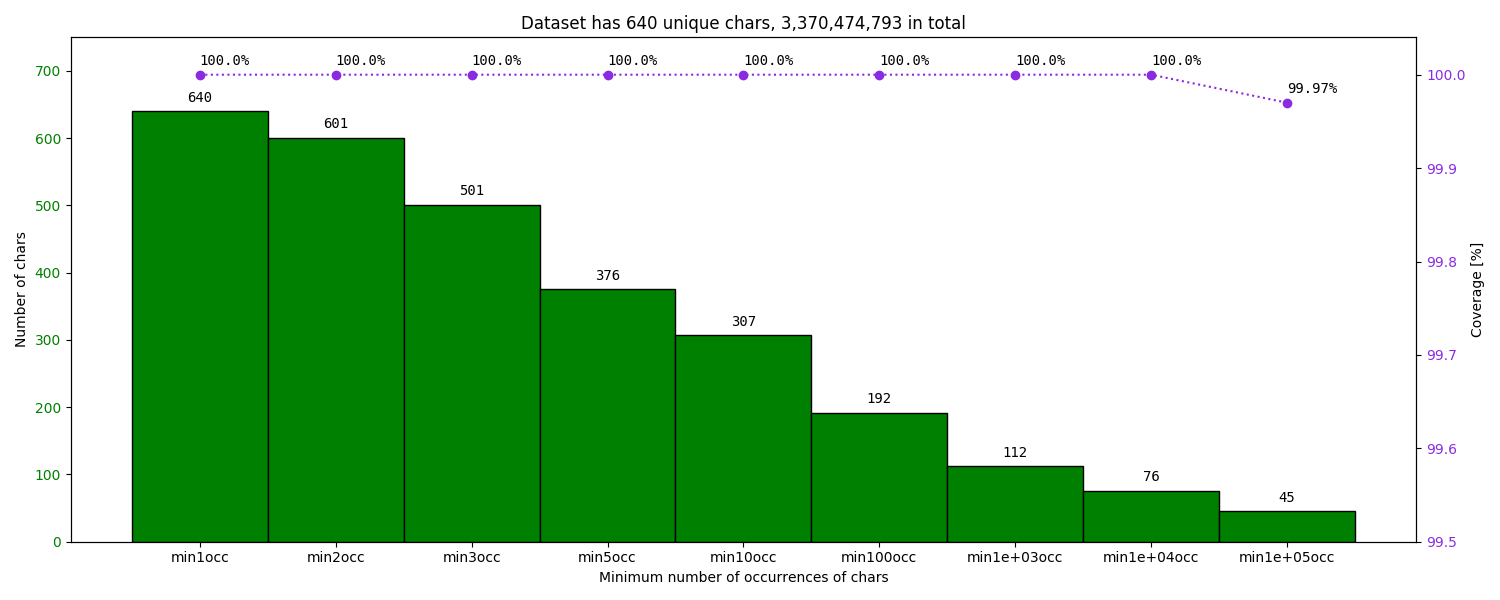
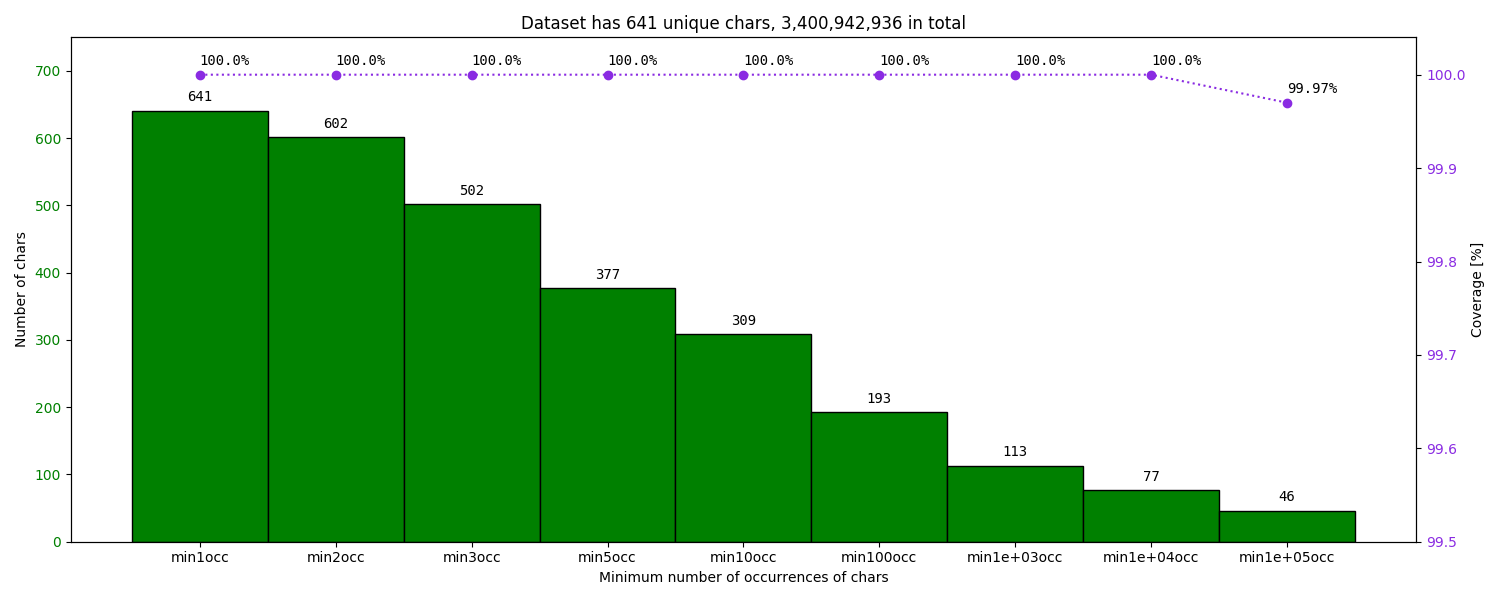
Update README and occurrences plots

diff --git a/README.md b/README.md
@@ -74,9 +74,26 @@ Configuration
 
 ```yaml
 ---
-url: https://dumps.wikimedia.org/frwiki/latest/frwiki-latest-pages-articles.xml.bz2
-output: /mnt/data/ml/qwant/datasets/wikipedia/fr-articles/
-args:
+res: /mnt/data/ml/qwant/datasets/wikipedia/fr-articles/
+actions:
+  - download
+  - decompress
+  - extract
+  - preprocess
+  - plot_word_occurrences
+  - define_word_vocabulary
+  - plot_char_occurrences
+  - define_char_vocabulary
+download:
+  input: https://dumps.wikimedia.org/frwiki/latest/frwiki-latest-pages-articles.xml.bz2
+  output: frwiki-latest-pages-articles.xml.bz2
+decompress:
+  input: frwiki-latest-pages-articles.xml.bz2
+  output: frwiki-latest-pages-articles.xml
+extract:
+  input: frwiki-latest-pages-articles.xml
+  output: frwiki-latest-pages-articles.jsonl
+  args:
     - --quiet
     - --json
     - --bytes 30G
@@ -84,40 +101,48 @@ args:
     - --no-templates
     - --filter_disambig_pages
     - --min_text_length 50
-preprocessing:
+preprocess:
+  input: frwiki-latest-pages-articles.jsonl
+  output: frwiki-latest-pages-articles.txt
+  kwargs:
     ignore_digits: True
     apostrophe: fr
     ignore_punctuation: noise-a
-    tostrip: True
+    tostrip: False
     keepalnum: True
-word_filter:
-    topn: 500000
-plot_format: png
-word_plot:
+plot_word_occurrences:
+  input: frwiki-latest-pages-articles.txt
+  output: plots/frwiki-latest-pages-articles_words.png
+  kwargs:
     mins: [1, 2, 3, 5, 10, 100]
     left_lim: [0, 3000000]
     right_lim: [95, 100.4]
-char_plot:
+define_word_vocabulary:
+  input: frwiki-latest-pages-articles.txt
+  output: frwiki-latest-pages-articles_voc-top500k-words.json
+  kwargs:
+    topn: 500000
+plot_char_occurrences:
+  input: frwiki-latest-pages-articles.txt
+  output: plots/frwiki-latest-pages-articles_chars.png
+  kwargs:
     mins: [1, 2, 3, 5, 10, 100, 1000, 10000, 100000]
     left_lim: [0, 750]
     right_lim: [99.5, 100.04]
+define_char_vocabulary:
+    input: frwiki-latest-pages-articles.txt
+    output: frwiki-latest-pages-articles_voc-chars.json
 ```
 
 Output
 
 ```
-INFO [2018-03-28 08:54:06,878] [ccquery] Download wikipedia dump
-INFO [2018-03-28 08:54:06,878] [ccquery.preprocessing.wiki_extraction] Download wikipedia dump from
-    https://dumps.wikimedia.org/frwiki/latest/frwiki-latest-pages-articles.xml.bz2
-    and store it to frwiki-latest-pages-articles.bz2
-
-INFO [2018-03-28 09:26:49,427] [ccquery] Decompress data
-INFO [2018-03-28 09:26:49,427] [ccquery.preprocessing.wiki_extraction] Decompress wikipedia dump from
-    frwiki-latest-pages-articles.bz2
-    and store it to frwiki-latest-pages-articles.xml
-
-INFO [2018-03-28 09:36:11,000] [ccquery] Extract plain text
-INFO [2018-03-28 09:36:11,032] [ccquery.preprocessing.wiki_extraction] Extract plain text from Wikipedia by executing the command:
+INFO [2018-04-10 11:50:58,460] [ccquery] Executing download action
+INFO [2018-04-10 11:50:58,461] [ccquery.preprocessing.wiki_extraction] Download wikipedia dump
+INFO [2018-04-10 12:22:37,021] [ccquery] Executing decompress action
+INFO [2018-04-10 12:22:37,022] [ccquery.preprocessing.wiki_extraction] Decompress wikipedia dump
+INFO [2018-04-10 12:33:29,653] [ccquery] Executing extract action
+INFO [2018-04-10 12:33:29,653] [ccquery.preprocessing.wiki_extraction] Extract plain text from Wikipedia by executing the command:
     WikiExtractor.py \
         frwiki-latest-pages-articles.xml \
         --quiet \
@@ -128,39 +153,24 @@ INFO [2018-03-28 09:36:11,032] [ccquery.preprocessing.wiki_extraction] Extract p
         --filter_disambig_pages \
         --min_text_length 50 \
         -o - > frwiki-latest-pages-articles.jsonl
-
-INFO [2018-03-28 10:47:31,153] [ccquery] Extract clean sentences
-INFO [2018-03-28 10:47:31,153] [ccquery.preprocessing.wiki_extraction] Extract clean sentences from
-    frwiki-latest-pages-articles.jsonl
-    and store them to frwiki-latest-pages-articles.txt
-
-INFO [2018-03-28 11:53:00,139] [ccquery] Process words
-INFO [2018-03-28 11:56:05,278] [ccquery.preprocessing.vocabulary] Read 2,496,898 words with 587,893,490 occurrences
-INFO [2018-03-28 11:56:05,279] [ccquery] Plot word occurrences
-INFO [2018-03-28 11:56:06,886] [ccquery.preprocessing.vocabulary] Saved histogram on word occurrences under
-    frwiki-latest-pages-articles_words.png
-INFO [2018-03-28 11:56:06,886] [ccquery] Filter words with respect to number of occurrences
-INFO [2018-03-28 11:56:08,198] [ccquery.preprocessing.vocabulary] Saved
-    500,000 words out of 2,496,898
-    (20.02% unique words, 99.25% coverage of word occurrences)
-INFO [2018-03-28 11:56:08,260] [ccquery] Save word vocabulary under json and txt format
-INFO [2018-03-28 11:56:09,639] [ccquery.preprocessing.vocabulary] Saved word counts under
-    frwiki-latest-pages-articles_voc-topn=500000-words.json
-INFO [2018-03-28 11:56:09,817] [ccquery.preprocessing.vocabulary] Saved word counts under
-    frwiki-latest-pages-articles_voc-topn=500000-words.txt
-
-INFO [2018-03-28 11:56:09,817] [ccquery] Process characters
-INFO [2018-03-28 12:04:21,046] [ccquery.preprocessing.vocabulary] Read 640 chars with 3,370,474,793 occurrences
-INFO [2018-03-28 12:04:21,046] [ccquery] Plot character occurrences
-INFO [2018-03-28 12:04:21,217] [ccquery.preprocessing.vocabulary] Saved histogram on char occurrences under
-    frwiki-latest-pages-articles_chars.png
-INFO [2018-03-28 12:04:21,217] [ccquery] Save character vocabulary under json and txt format
-INFO [2018-03-28 12:04:21,219] [ccquery.preprocessing.vocabulary] Saved char counts under
-    frwiki-latest-pages-articles_voc-chars.json
-INFO [2018-03-28 12:04:21,219] [ccquery.preprocessing.vocabulary] Saved char counts under
-    frwiki-latest-pages-articles_voc-chars.txt
-
-INFO [2018-03-28 12:04:21,219] [ccquery] Finished.
+INFO [2018-04-10 14:31:33,687] [ccquery] Executing preprocess action
+INFO [2018-04-10 14:31:33,687] [ccquery.preprocessing.wiki_extraction] Extract clean sentences
+INFO [2018-04-10 17:01:10,611] [ccquery] Executing plot_word_occurrences action
+INFO [2018-04-10 17:06:48,838] [ccquery.preprocessing.vocabulary] Read 2,522,623 words with 589,297,641 occurrences
+INFO [2018-04-10 17:06:48,838] [ccquery.preprocessing.vocabulary] Save histogram on word occurrences
+INFO [2018-04-10 17:06:51,791] [ccquery] Executing define_word_vocabulary action
+INFO [2018-04-10 17:06:54,006] [ccquery.preprocessing.vocabulary] Saved
+    500,000 words out of 2,522,623
+    (19.82% unique words, 99.24% coverage of word occurrences)
+INFO [2018-04-10 17:06:54,089] [ccquery.preprocessing.vocabulary] Save word counts in json file
+INFO [2018-04-10 17:06:56,272] [ccquery.preprocessing.vocabulary] Save words in text file
+INFO [2018-04-10 17:06:57,198] [ccquery] Executing plot_char_occurrences action
+INFO [2018-04-10 17:23:13,536] [ccquery.preprocessing.vocabulary] Read 641 chars with 3,400,942,936 occurrences
+INFO [2018-04-10 17:23:13,536] [ccquery.preprocessing.vocabulary] Save histogram on char occurrences
+INFO [2018-04-10 17:23:13,845] [ccquery] Executing define_char_vocabulary action
+INFO [2018-04-10 17:23:13,845] [ccquery.preprocessing.vocabulary] Save char counts in json file
+INFO [2018-04-10 17:23:13,847] [ccquery.preprocessing.vocabulary] Save chars in text file
+INFO [2018-04-10 17:23:13,848] [ccquery] Finished.
 ```
 
 The plot on the word occurrences  
@@ -182,7 +192,7 @@ Configuration
 ```yaml
 ---
 order: 3
-vocab: /mnt/data/ml/qwant/datasets/wikipedia/fr-articles/frwiki-latest-pages-articles_voc-topn=500000-words.txt
+vocab: /mnt/data/ml/qwant/datasets/wikipedia/fr-articles/frwiki-latest-pages-articles_voc-top500k-words.txt
 corpus: /mnt/data/ml/qwant/datasets/wikipedia/fr-articles/frwiki-latest-pages-articles.txt
 smoothing: -gt1min 0 -kndiscount2 -gt2min 0 -interpolate2 -kndiscount3 -gt3min 0 -interpolate3
 pruning: 1e-9
@@ -197,12 +207,12 @@ Launch n-gram counting
     ngram-count \
         -order 3 \
         -text frwiki-latest-pages-articles.txt \
-        -unk -vocab frwiki-latest-pages-articles_voc-topn=500000-words.txt \
+        -unk -vocab frwiki-latest-pages-articles_voc-top500k-words.txt \
         -sort -write counts_order3_500kwords_frwiki-latest-pages-articles.txt \
         -debug 2
 
-29,588,580 sentences, 587,893,490 words, 4,423,341 OOVs
-Finished at 13:05:38, after 300 seconds
+29,642,700 sentences, 589,297,641 words, 4,486,608 OOVs
+Finished at 09:44:22, after 486 seconds
 
 Launch LM training
     make-big-lm \
@@ -216,19 +226,19 @@ Launch LM training
 using ModKneserNey for 1-grams
 using ModKneserNey for 2-grams
 using ModKneserNey for 3-grams
-warning: distributing 0.000372689 left-over probability mass over all 500002 words
+warning: distributing 0.000334545 left-over probability mass over all 500002 words
 
 discarded       1 2-gram contexts containing pseudo-events
-discarded  454422 3-gram contexts containing pseudo-events
+discarded  453443 3-gram contexts containing pseudo-events
 
-pruned    3254800 2-grams
-pruned   88871145 3-grams
+pruned    3273196 2-grams
+pruned   90005564 3-grams
 
 writing    500003 1-grams
-writing  34634795 2-grams
-writing  63960504 3-grams
+writing  34918094 2-grams
+writing  64693601 3-grams
 
-Finished at 13:34:32, after 1734 seconds
+Finished at 10:31:58, after 2856 seconds
 
 Generated a model of 2.9G
 ```
